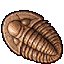
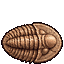
Puiutu: trilobite lies level with the plank, head to the right

diff --git a/life_of_puiutu_game.html b/life_of_puiutu_game.html
@@ -12623,7 +12623,7 @@ const BEACH_NOTES=[
   ['Shelly — the skull is real. I buried it again where the whale lies. Do not tell the crown. — an old digger','Shelly — craniul e adevărat. L-am îngropat la loc unde zace balena. Nu spune coroanei. — un săpător bătrân'],
 ];
 function fossilName(f){ return LT(f.name[0],f.name[1]); }
-function fossilArt(id){ return 'ui/forge/px/fossil_'+id+'.png?v=4'; }
+function fossilArt(id){ return 'ui/forge/px/fossil_'+id+'.png?v=5'; }
 function beachArt(id){ return 'ui/forge/px/beach_'+id+'.png?v=2'; }
 function weightedPick(list,wf){ const tot=list.reduce((a,x)=>a+wf(x),0); let r=Math.random()*tot; for(const x of list){ r-=wf(x); if(r<=0) return x; } return list[list.length-1]; }
 // what the tide turns up: the rarer pieces are weighted up so a patient beachcomber does see them

diff --git a/gen_forge_px.py b/gen_forge_px.py
@@ -33,7 +33,7 @@ def lie_flat(im):
 # grid grows by the same factor, so their pixels stay the same size on screen as everyone else's.
 SIZE={'charm_heart':1.6}
 # turned so they lie naturally on a shelf (degrees, counter-clockwise)
-ROT={'fossil_trilobite':90,'fossil_sharktooth':90}
+ROT={'fossil_trilobite':-55.4,'fossil_sharktooth':90}   # trilobite: long axis level with the plank, head to the right
 os.makedirs('ui/forge/px',exist_ok=True)
 META={}
 def ground_sink(tile):
